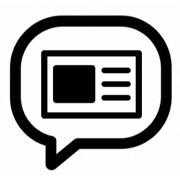
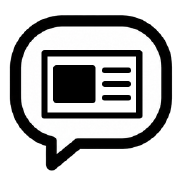
feat(branding): drop the badge's white background; remove page sign out
Keys the near-white background out of the badge so the icon sits on any
surface instead of carrying a white tile — most visibly as a favicon on
dark browser chrome. A flood fill from the image border stops at the
bubble's outline, so only the background outside the artwork goes; the
white inside the bubble stays opaque and the logo still reads on a dark
surface. Edge pixels take their alpha from how dark they are rather than
a threshold, which keeps the anti-aliasing smooth. favicon.ico and the
apple-touch-icon are regenerated from the same transparent source.

Also removes the Sign out button from the account settings title row.
Signing out is already in the shell's hamburger menu, which every page
carries, so the page-level copy was the narrower of two routes to the
same action. The e2e logout path now goes through the menu, which lands
on the public page rather than /login.

bloombot

diff --git a/client/src/pages/AccountSettingsPage.tsx b/client/src/pages/AccountSettingsPage.tsx
@@ -1,7 +1,8 @@
 /**
  * Everything about one account, in one place (AUTH-5 / SHARE-1 / BILL-4):
  * the public profile fields, the account's plan and what it has used, profile
- * visibility, both languages, and sign out.
+ * visibility, and both languages. Signing out is not here — it lives in the
+ * shell's hamburger menu, which every page carries.
  *
  * A full page at a canonical route rather than a modal, and rather than half
  * of it living on the profile page. Settings is somewhere you go and stay for
@@ -13,8 +14,7 @@
  * `/app/settings` is your own; `/app/settings/:userId` is how an allowlisted
  * admin edits someone else's (ADMIN-5). The admin path confirms once on entry,
  * keeps a banner up for as long as the page is open, and writes an audit entry
- * per change. Two controls differ by design: sign out ends the *admin's* own
- * session, so it stays with the owner, and the interface language is a plain
+ * per change. One control differs by design: the interface language is a plain
  * select when an admin sets it on someone else's account — LocaleSwitcher
  * changes the language of the app you are looking at, which is the owner's,
  * not the admin's.
@@ -28,7 +28,6 @@ import {
 } from 'react'
 import { Navigate, useNavigate, useParams } from 'react-router'
 import { useTranslation } from 'react-i18next'
-import { LogOut } from 'lucide-react'
 import {
   LOCALES,
   LOCALE_LABELS,
@@ -192,11 +191,6 @@ export default function AccountSettingsPage() {
     }
   }
 
-  const onSignOut = async () => {
-    await logout()
-    navigate('/login')
-  }
-
   /** Saves one changed field of the admin's target account and folds it
    * in. Unlike the owner's quiet failures, a refusal here is reported —
    * the account is not the admin's, so a silent revert would mislead. */
@@ -297,21 +291,10 @@ export default function AccountSettingsPage() {
   // the same way the home page narrows its lecture list.
   return (
     <div>
+      {/* Signing out lives only in the shell's hamburger menu now, so it is
+          reachable from every page instead of just this one. */}
       <div className="mb-6 flex items-center justify-between gap-4">
         <h1 className="text-2xl font-bold">{t('common.settings')}</h1>
-        {/* Sign out sits with the title rather than at the bottom of a tab:
-            it belongs to the account, not to General or to Plan, and burying
-            it inside one of them would make it findable from only half the
-            page. Absent for an admin — it would end the *admin's* session. */}
-        {user && !adminUserId && (
-          <button
-            onClick={() => void onSignOut()}
-            className="flex shrink-0 items-center gap-2 rounded-md border border-slate-300 px-3 py-1.5 text-sm font-medium text-slate-700 hover:bg-slate-50"
-          >
-            <LogOut className="h-4 w-4" aria-hidden />
-            {t('auth.signOut')}
-          </button>
-        )}
       </div>
 
       {adminUserId && <AdminEditNotice entity="account" />}

diff --git a/client/src/pages/AccountSettingsPage.test.tsx b/client/src/pages/AccountSettingsPage.test.tsx
@@ -1,6 +1,6 @@
 /**
  * Unit tests for the unified account settings page: the owner's own profile
- * fields, account details, visibility toggle, both languages, and sign out —
+ * fields, account details, visibility toggle, and both languages —
  * then the admin path over the same controls (ADMIN-5), which confirms on
  * entry, loads the target account, saves through the audited endpoint, and
  * drops the owner-only pieces.
@@ -139,12 +139,6 @@ describe('AccountSettingsPage', () => {
     await vi.waitFor(() => expect(sent).toEqual({ language: null }))
   })
 
-  it('signs out and redirects to login', async () => {
-    renderSettings()
-    fireEvent.click(await screen.findByRole('button', { name: /sign out/i }))
-    expect(await screen.findByText('LOGIN PAGE')).toBeInTheDocument()
-  })
-
   it('edits the public profile fields in place', async () => {
     // Merged from the profile page: there is one place to change a setting,
     // whichever setting it is.
@@ -281,16 +275,13 @@ describe('AccountSettingsPage', () => {
     ).toBe(false)
   })
 
-  it('keeps sign out in the title row, out of both tabs', async () => {
-    // It belongs to the account rather than to General or Plan; inside one of
-    // them it would be findable from only half the page.
+  it('offers no sign out — it lives in the shell menu, on every page', async () => {
     renderSettings()
 
-    expect(
-      await screen.findByRole('button', { name: /sign out/i }),
-    ).toBeVisible()
+    await screen.findByRole('tab', { name: 'Plan' })
+    expect(screen.queryByRole('button', { name: /sign out/i })).toBeNull()
     fireEvent.click(screen.getByRole('tab', { name: 'Plan' }))
-    expect(screen.getByRole('button', { name: /sign out/i })).toBeVisible()
+    expect(screen.queryByRole('button', { name: /sign out/i })).toBeNull()
   })
 
   it('switches the interface language and persists it to the account', async () => {
@@ -446,7 +437,7 @@ describe('AccountSettingsPage as an admin (ADMIN-5)', () => {
     expect(screen.queryByTestId('usage-panel')).toBeNull()
   })
 
-  it('offers no sign out — that would end the admin’s own session', async () => {
+  it('offers no sign out, the same as the owner’s own view', async () => {
     await renderAsAdmin()
     await screen.findByText('grace@example.com')
     expect(screen.queryByRole('button', { name: /sign out/i })).toBeNull()

diff --git a/e2e/tests/auth.spec.ts b/e2e/tests/auth.spec.ts
@@ -46,14 +46,16 @@ test('projects persist across logout and login', async ({ page }) => {
   await createProject(page, 'Biology 101')
   await expect(page.getByText('Biology 101')).toBeVisible()
 
-  // The hamburger menu's Profile opens the user's own profile page;
-  // sign out lives in its account settings
+  // The hamburger menu's Profile opens the user's own profile page
   await page.getByRole('button', { name: 'Menu' }).click()
   await page.getByRole('menuitem', { name: 'Profile' }).click()
   await expect(page).toHaveURL(/\/u\/[a-f0-9]+$/)
-  await page.getByRole('button', { name: 'Settings' }).click()
-  await page.getByRole('button', { name: 'Sign out' }).click()
-  await expect(page).toHaveURL(/\/login$/)
+
+  // Logging out is in that same menu, the only place it lives now; it
+  // drops the session and lands on the public page rather than /login
+  await page.getByRole('button', { name: 'Menu' }).click()
+  await page.getByRole('menuitem', { name: 'Log out' }).click()
+  await expect(page).toHaveURL(/\/$/)
 
   // Signed out for real: a reload must not restore the session
   await page.goto('/app')
